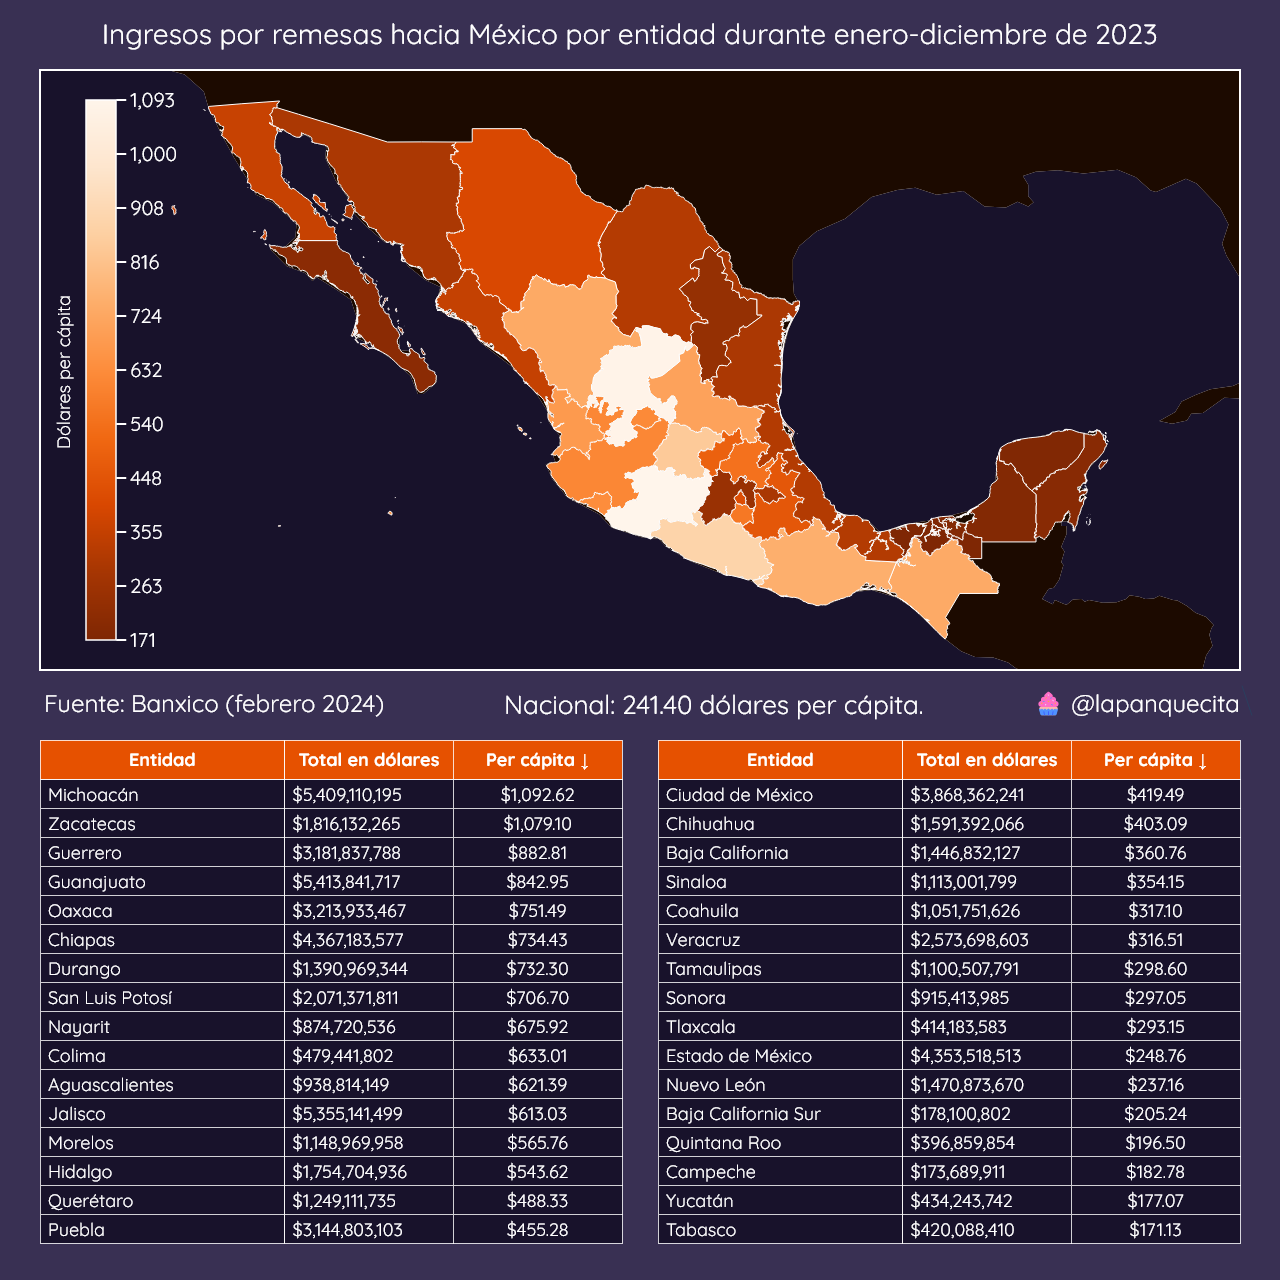
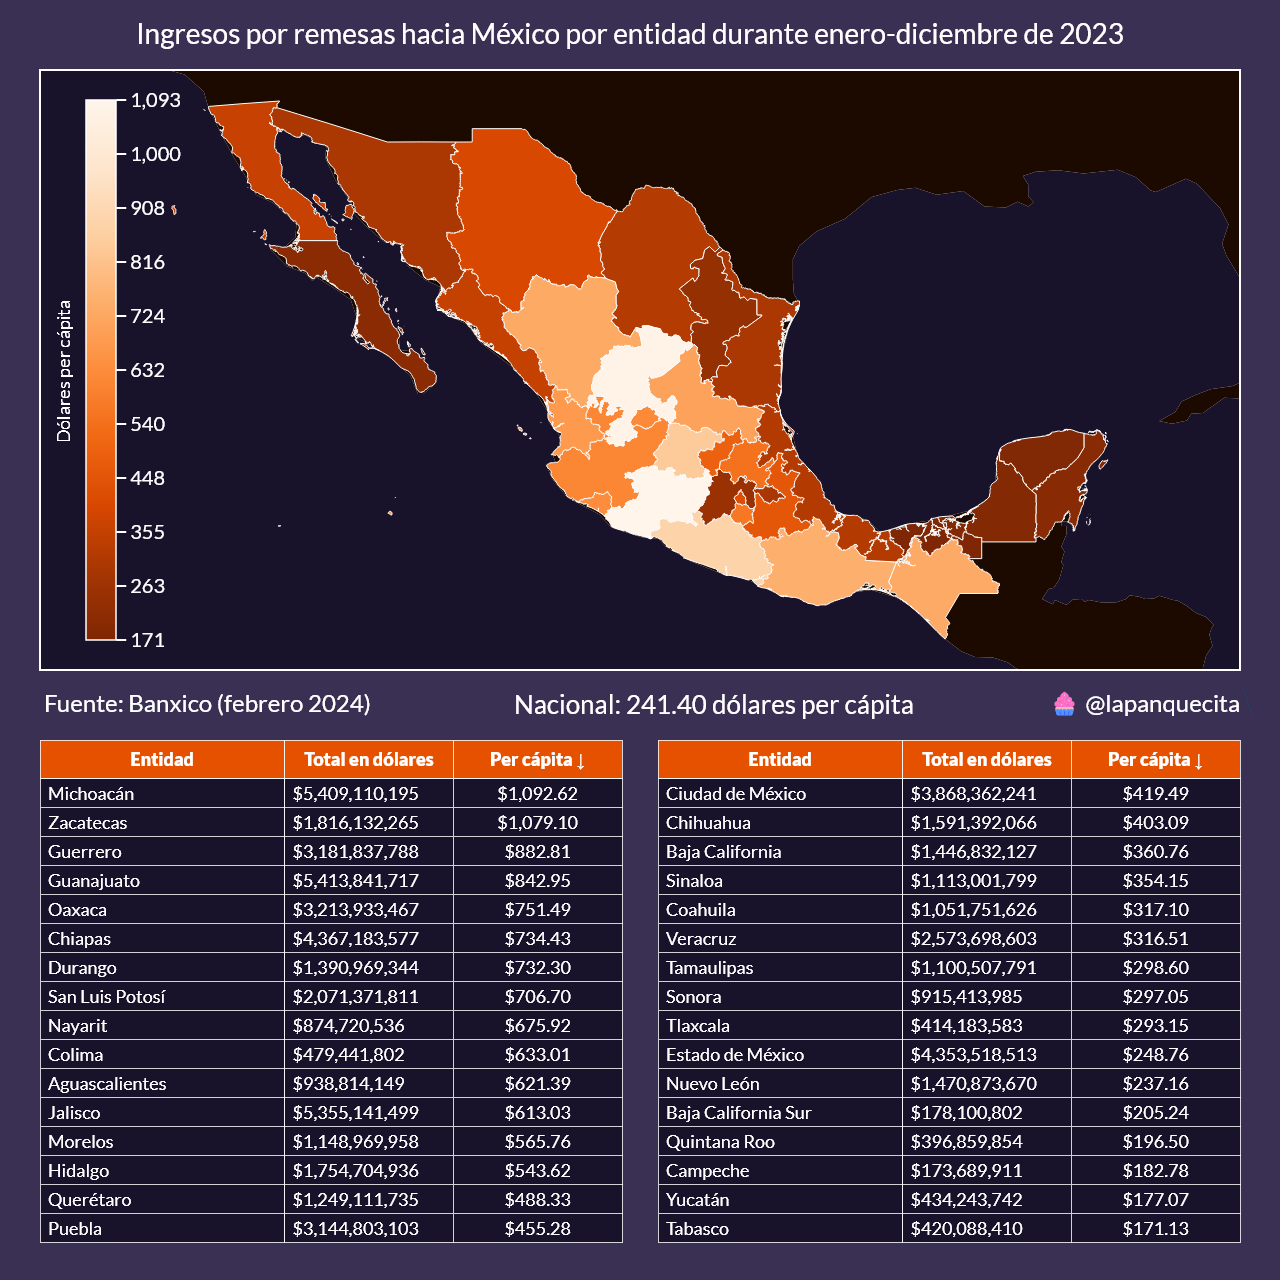
Add files via upload

diff --git a/remesas_entidad.py b/remesas_entidad.py
@@ -67,7 +67,7 @@ def plot_mapa(año):
     df["total"] = df.sum(axis=1) * 1000000
 
     # Calculamos las remesas per cápita para toda la polación.
-    subtitulo = f"Nacional: {df['total'].sum() / pop.sum():,.2f} dólares per cápita."
+    subtitulo = f"Nacional: {df['total'].sum() / pop.sum():,.2f} dólares per cápita"
 
     # Asignamos la población a cada entidad.
     df["pop"] = df.index.map(pop)
@@ -155,7 +155,7 @@ def plot_mapa(año):
         legend_font_size=20,
         legend_bordercolor="#FFFFFF",
         legend_borderwidth=2,
-        font_family="Quicksand",
+        font_family="Lato",
         font_color="#FFFFFF",
         margin={"r": 40, "t": 50, "l": 40, "b": 30},
         width=1280,
@@ -288,7 +288,7 @@ def plot_mapa(año):
         xaxis_rangeslider_visible=False,
         width=1280,
         height=560,
-        font_family="Quicksand",
+        font_family="Lato",
         font_color="#FFFFFF",
         font_size=18,
         title="",
